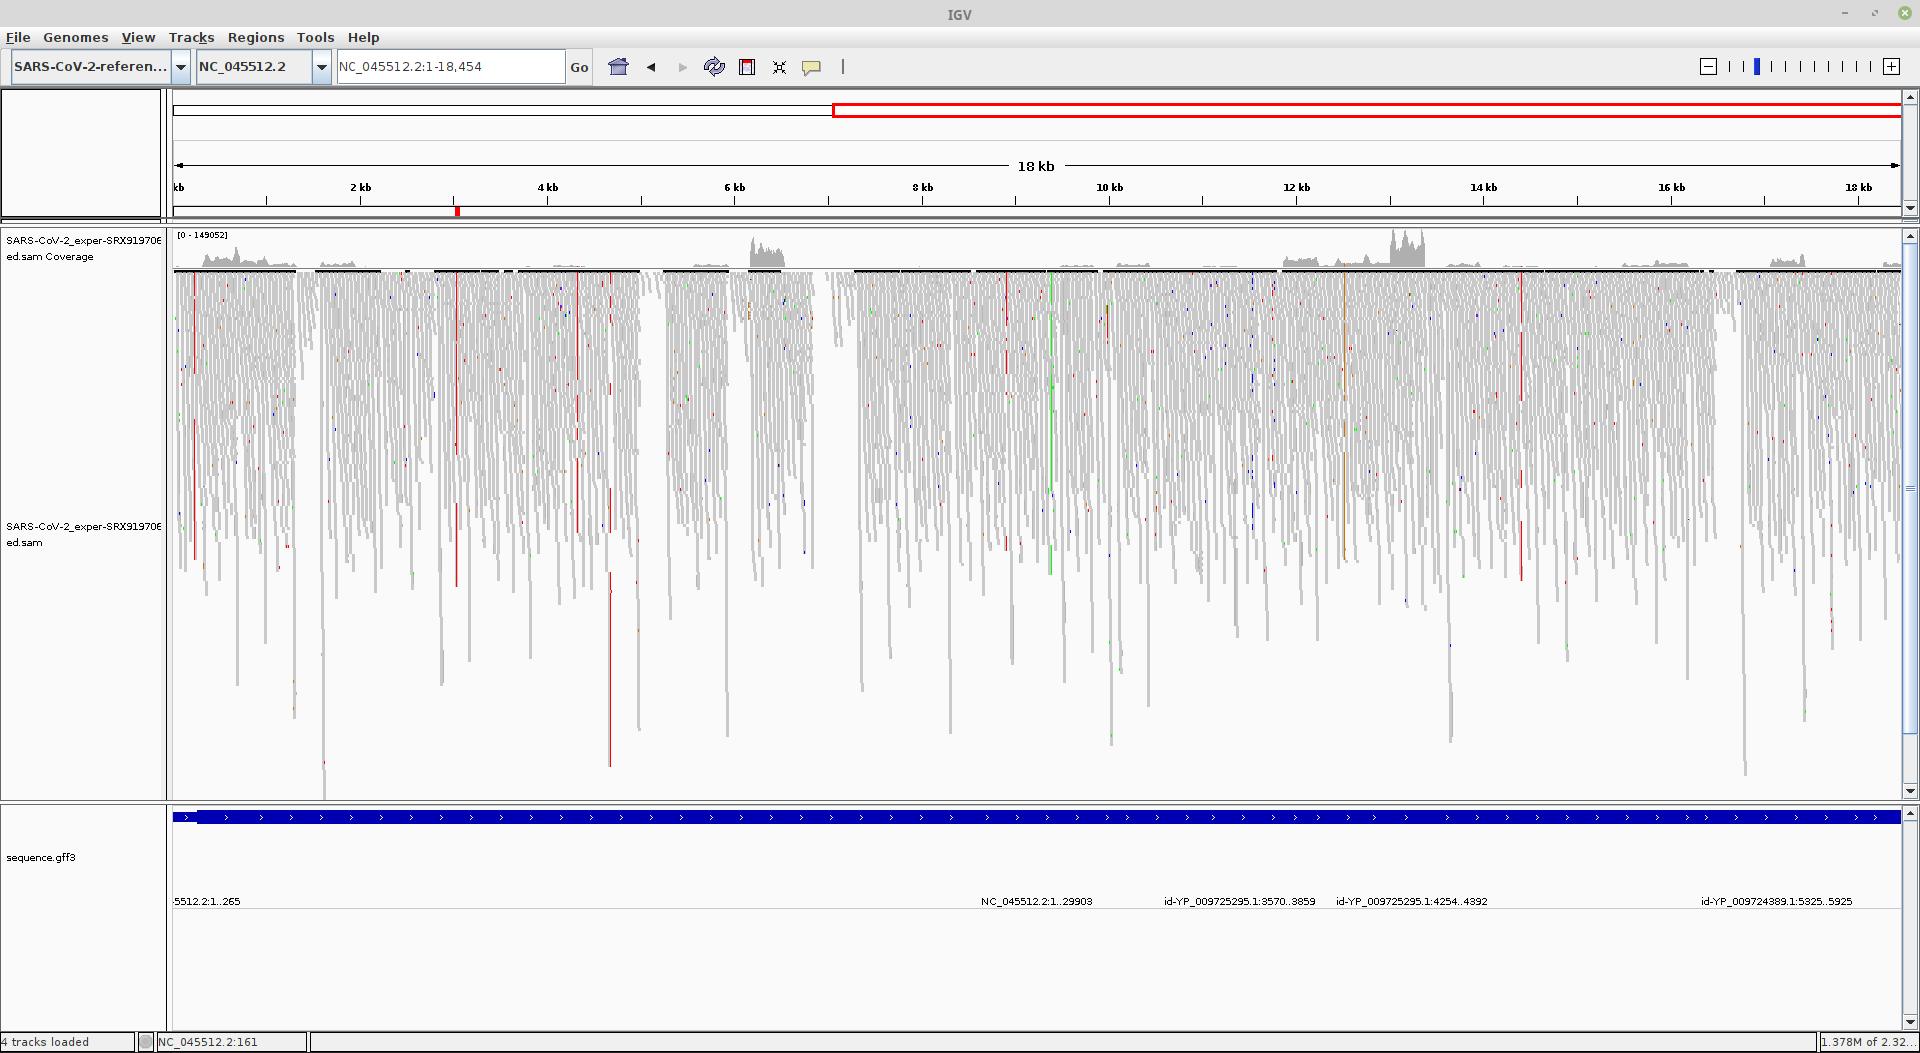
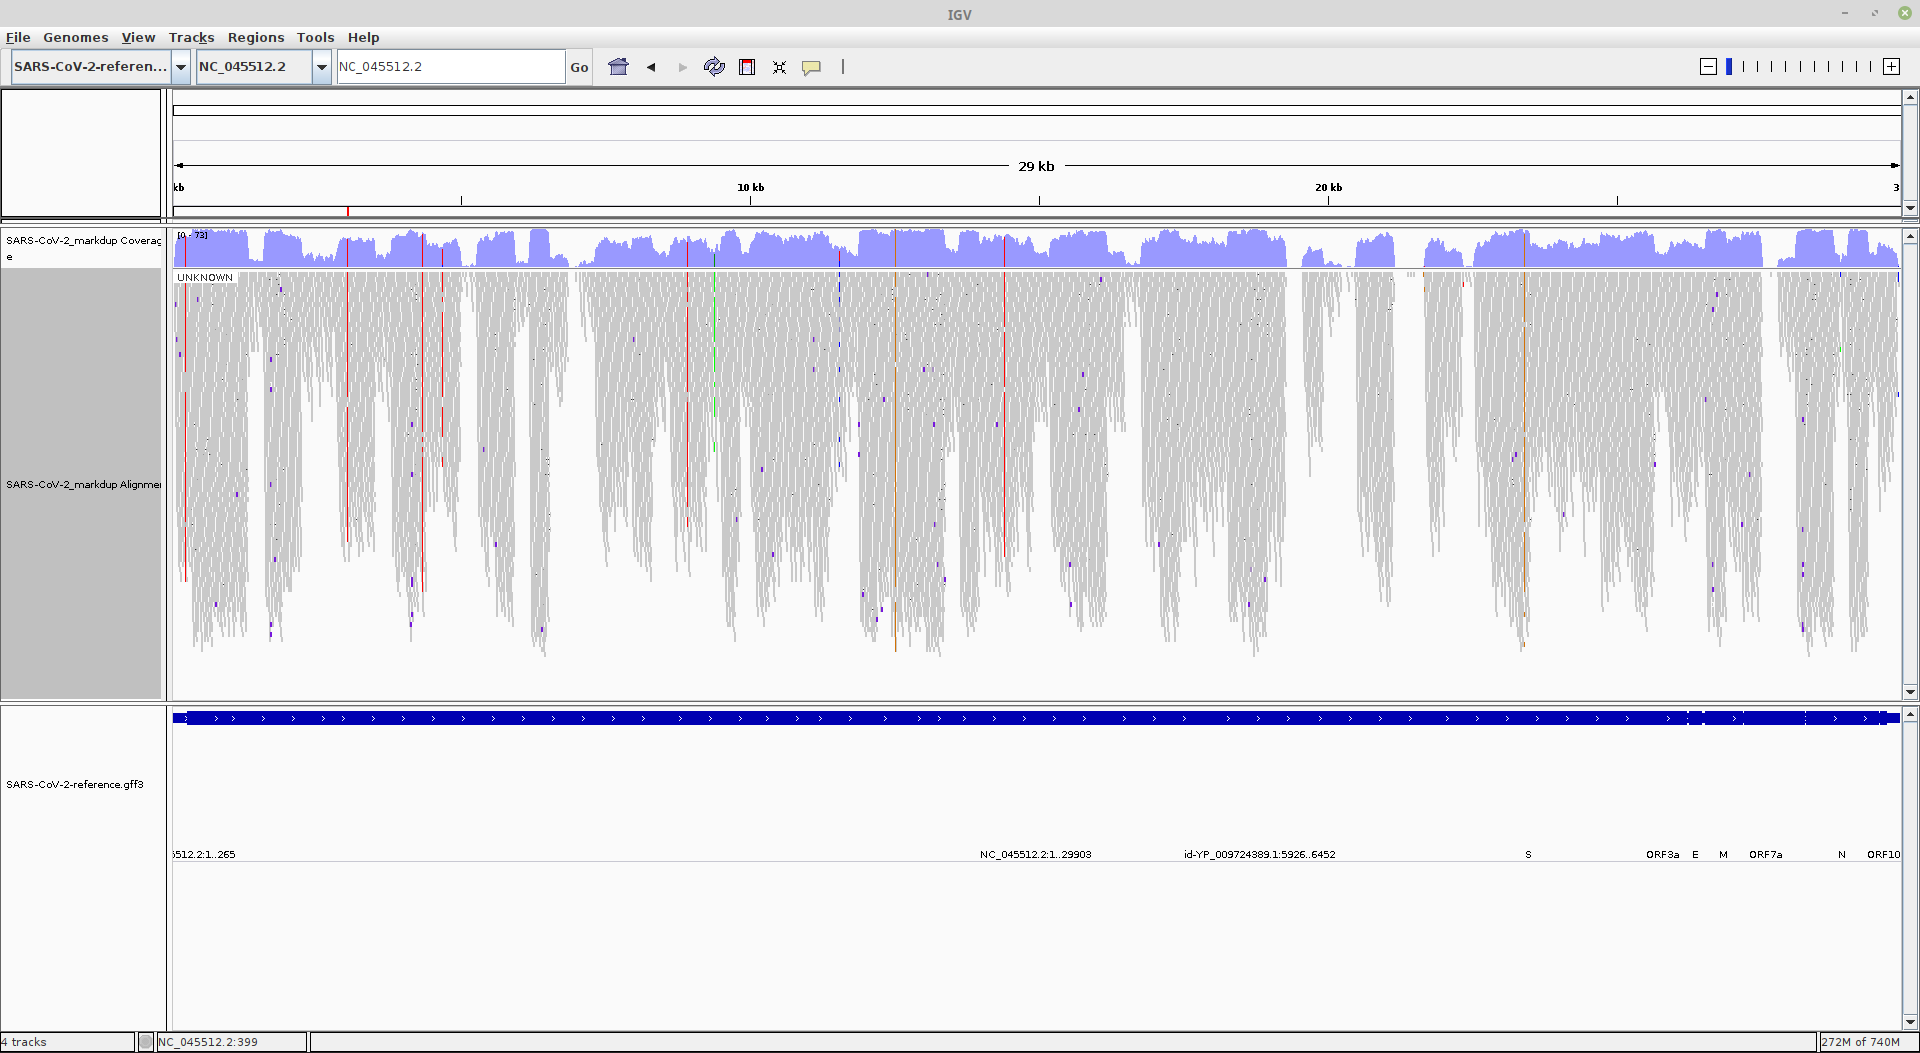
Population genetics

diff --git a/_docs/generic/mapping_reads.md b/_docs/generic/mapping_reads.md
@@ -138,7 +138,15 @@ Before we map our _Illumina_ reads against the reference, we need to check the q
 fastqc -f fastq SARS-CoV-2_exper-SRX9197062.fastq.gz
 {% endhighlight %}
 
-It took a bit more than a minute to run and it displays the progress. The outputs are two, a zip file and a html file (find them [here](https://github.com/adriangeerre/popgen.github.io/tree/master/analysis/mapping_reads)). The first one contain the raw metrics and all the output data while the html contains a group of plots summarising the quality tests. If you open the html file with a browser, you will see that there are 3 different icons in the left column: fail (red), warning (orange) and pass (green). In our case, the data has been curated before uploading so almost everything seems correct except for the _Per base sequence content_ and the _Sequence duplication levels_. From my point of view, given that I have not done the lab work, the data seems right with minor issues. In other words, we can proceed to the mapping of the reads.
+It took a bit more than a minute to run and it displays the progress. The outputs are two, a zip file and a html file (find them [here](https://github.com/adriangeerre/popgen.github.io/tree/master/analysis/mapping_reads)). The first one contain the raw metrics and all the output data while the html contains a group of plots summarising the quality tests. If you open the html file with a browser, you will see that there are 3 different icons in the left column: fail (red), warning (orange) and pass (green). In our case, the data has been curated before uploading so almost everything seems correct except for the _Per base sequence content_ and the _Sequence duplication levels_. From my point of view, given that I have not done the lab work, the data seems right with minor issues. We should try to correct those issues and, after, proceed to the mapping of the reads.
+
+<p>&nbsp;</p>
+
+**Correct reads errors**
+
+If we found some issues with the reads we can try to sove them. For example, as the information of the [run](https://trace.ncbi.nlm.nih.gov/Traces/sra/?run=SRR12718124) says in the section _Analysis_ there are only 11.23% of the reads identified for SARS-CoV-2. The others are contaminants that could cause a distorsion of our results. In this case, ***I am not running the correction because it take time and storage***. For this purpose, we can use different software: _BLAST_ (online or installed), _Kraken2_ or R scripting with the packages related to the databases _Silva_, _NCBI_ (_taxize_) or _Bold_ (_bold_). 
+
+Also, other mistakes can be corrected after mapping/assembling the reads. For example, the software _Blobtools_ (previously known as _Blobology_) is an option to use to visualize the content of genome assembly datasets.
 
 <p>&nbsp;</p>
 
@@ -182,9 +190,63 @@ The output is a SAM file with around 919 MB weight and 6.5 million lines. It is 
 
 <p>&nbsp;</p>
 
+**Remove duplicates**
+
+Duplicate reads can distort our findings. For example, can introduce PCR errors that will be treated as SNPs if they are not corrected. In order to correct those we need to do a few steps:
+
+{% highlight Bash %}
+samtools fixmate -m SARS-CoV-2_exper-SRX9197062.sam SARS-CoV-2_exper-SRX9197062_fixmate.sam
+samtools sort SARS-CoV-2_exper-SRX9197062_fixmate.sam -o SARS-CoV-2_exper-SRX9197062_fixmate_sorted.sam
+{% endhighlight %}
+
+After adding the mate score tag, we are ready to remove the duplicates:
+
+{% highlight Bash %}
+samtools markdup SARS-CoV-2_exper-SRX9197062_fixmate_sorted.sam SARS-CoV-2_exper-SRX9197062_fixmate_sorted_markdup.sam
+{% endhighlight %}
+
+Since we are using single-read data the process would not reduce the number of sequences but it will improve the posterior visualization. The remove of duplicates is more likely to improve paired-end reads datasets. Now, we can remove the intermediate files and keep the last one computed (markdup).
+
+<p>&nbsp;</p>
+
+**Transform _SAM_ to _BAM_ format**
+
+In order to run obtain the alignment Metrics using _Samtools flagstat_ we need a _BAM_ file. _BAM_ format is just a binary version of the _SAM_ format.
+
+{% highlight Bash %}
+samtools view -bS -T SARS-CoV-2-reference.fasta SARS-CoV-2_exper-SRX9197062_fixmate_sorted_markdup.sam > SARS-CoV-2_exper-SRX9197062.bam
+{% endhighlight %}
+
+<p>&nbsp;</p>
+
 **Alignment Quality control**
 
 The percentage of mapped reads is a global indicator of the overall sequencing accuracy and of the presence of contaminating DNA. We will run the program in the terminal but feel free to launch the desktop window.
+
+{% highlight Bash %}
+samtools index SARS-CoV-2_exper-SRX9197062.bam # Result = .bai
+samtools flagstat SARS-CoV-2_exper-SRX9197062.bam > SARS-CoV-2_exper-SRX9197062_Mapping_Metrics.txt
+{% endhighlight %}
+
+The output is a txt files including a few lines. Since our data is single-read and was curated before upload to NCBI, the results shown are poor. However, the procedure can be done for other data and generate different metrics.
+
+```
+6479048 + 0 in total (QC-passed reads + QC-failed reads)
+0 + 0 secondary
+0 + 0 supplementary
+6239545 + 0 duplicates
+6275945 + 0 mapped (96.87% : N/A)
+0 + 0 paired in sequencing
+0 + 0 read1
+0 + 0 read2
+0 + 0 properly paired (N/A : N/A)
+0 + 0 with itself and mate mapped
+0 + 0 singletons (N/A : N/A)
+0 + 0 with mate mapped to a different chr
+0 + 0 with mate mapped to a different chr (mapQ>=5)
+```
+
+The output shows that close to 97% of the reads have been mapped. Obviously, the lines related to the pairing of reads are uninformative for us.
 
 <p>&nbsp;</p>
 
@@ -193,19 +255,11 @@ The percentage of mapped reads is a global indicator of the overall sequencing a
 To visualize the mapped reads against the reference genome, we need to do two things:
 
 	1. Load our reference genome and annotation.
-	2. Load our SAM file
+	2. Load our BAM file
 
 In order to do the first step, we need to go to _Genomes_ > _Load Genome from File_. Then, select the file _SARS-CoV-2-reference.fasta_ and load it. The upper part of the window should show the full genome with a value of 29 kb in the middle of the line. In the upper right corner we can modify the zoom. If you move the blue line to the maximum you would be able to see the nucleotides per position. To load the gene annotation we can go to _File_ > _Load from File_ and select the file _SARS-CoV-2-reference.gff3_.
 
-For the second step, we first need to create an index file to load the _SAM_ file. We will use the software _Samtools_. The _SAM_ input have to be a gzip compress file with _bgzip_. After compressed, we will create the index.
-
-{% highlight Bash %}
-bgzip SARS-CoV-2_exper-SRX9197062_sorted.sam
-samtools index SARS-CoV-2_exper-SRX9197062.sam.gz SARS-CoV-2_exper-SRX9197062_sorted.sam.bai
-bgzip -d SARS-CoV-2_exper-SRX9197062.sam.gz # Decompress to read in IGV
-{% endhighlight %}
-
-After running the three commands, we can load the files in _IGV_ to see the alignments. With _IGV_ started, go to _File_ > _Load from File_ and select _SARS-CoV-2_exper-SRX9197062_sorted.sam_. The wizard will tell you that the index file was not found and you can click _Go_ to create one. Click _Go_ and wait until finished and loaded, it may take several minutes. It will create a _.sai_ file that is the index for our _SAM_ file. Once loaded you may be able to see something similar to the pictures. I said similar because the first picture shows the mapping of reads of the full genome with all the depth and coverage. The second picture shows the region to the left (position 3037 bp), which is marked in a red color and where we can find a variant (T instead of C).
+For the second step, we already created the required index for the _BAM_ file using _samtools index_ (_SARS-CoV-2_exper-SRX9197062.bam.bai_). If we want to load a _SAM_ file we need to created a _.sai_ format file. Also, if we load it in _IGV_ it will ask to create a index file with a pop-up wizard. To load the files in _IGV_ to see the alignments. With _IGV_ started, go to _File_ > _Load from File_ and select _SARS-CoV-2_exper-SRX9197062.bam_. It may take 1-2 minutes to load. Once loaded you may be able to see something similar to the pictures. I said similar because the first picture shows the mapping of reads of the full genome with all the depth and coverage. The second picture shows the region to the left (position 3037 bp), which is marked in a red color and where we can find a variant (T instead of C). Also, I modify the appearance a bit, such as, the color of the coverage track.
 
 <a href="http://adriangeerre.github.io/popgen.github.io/analysis/mapping_reads/images/IGV_full.png">
 	<img src="http://adriangeerre.github.io/popgen.github.io/analysis/mapping_reads/images/IGV_full.png" alt="IGV full" style="width:100%">
@@ -217,8 +271,6 @@ After running the three commands, we can load the files in _IGV_ to see the alig
 	<img src="http://adriangeerre.github.io/popgen.github.io/analysis/mapping_reads/images/IGV_variant_pos3037.png" alt="IGV variant pos3037" style="width:100%">
 </a>
 
-After the visualization, the errors found in the quality control seems not to be interfiering with the alignment. Also, we know from NCBI that all the reads had a good quality score (around 37).
-
-Finally, you can obtain the consensus sequence of your mapping using _IGV_. Right click on the box containing the reads (Alignment track), a submenu would be displayed. This menu allow you to define parameters or sort the reads, among others. To get the consensus sequence you can click on _Copy consensus sequence_ and paste into a file, adapt and save to fasta format. If you want to visualize the consensus sequence click on _Quick consensus mode_. I recommend to play with the different options diplayed by the menu.
+After the visualization, the errors found in the quality control seems not to be interfiering with the alignment. Finally, you can obtain the consensus sequence of your mapping using _IGV_. Right click on the box containing the reads (Alignment track), a submenu would be displayed. This menu allow you to define parameters or sort the reads, among others. To get the consensus sequence you can click on _Copy consensus sequence_ and paste into a file, adapt and save to fasta format. If you want to visualize the consensus sequence click on _Quick consensus mode_. I recommend to play with the different options diplayed by the menu.
 
 <p>&nbsp;</p>
